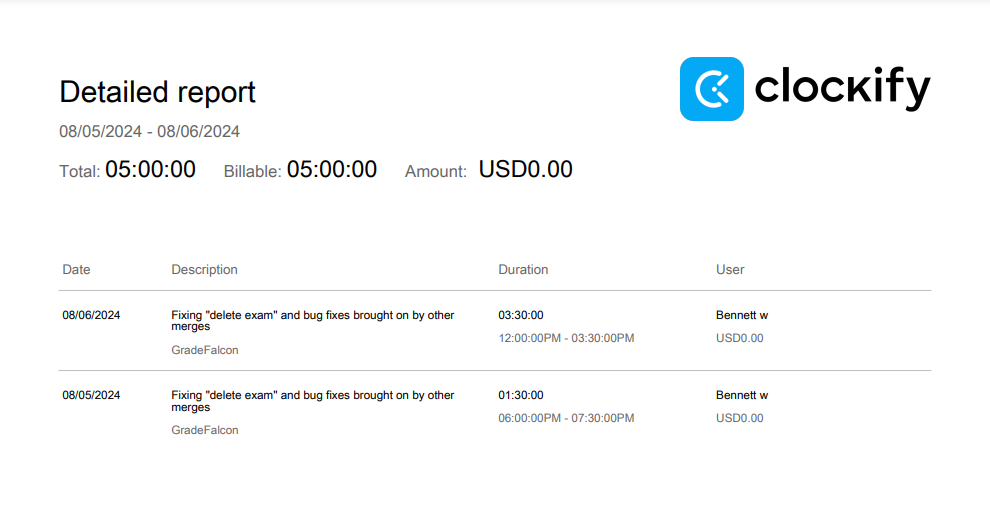
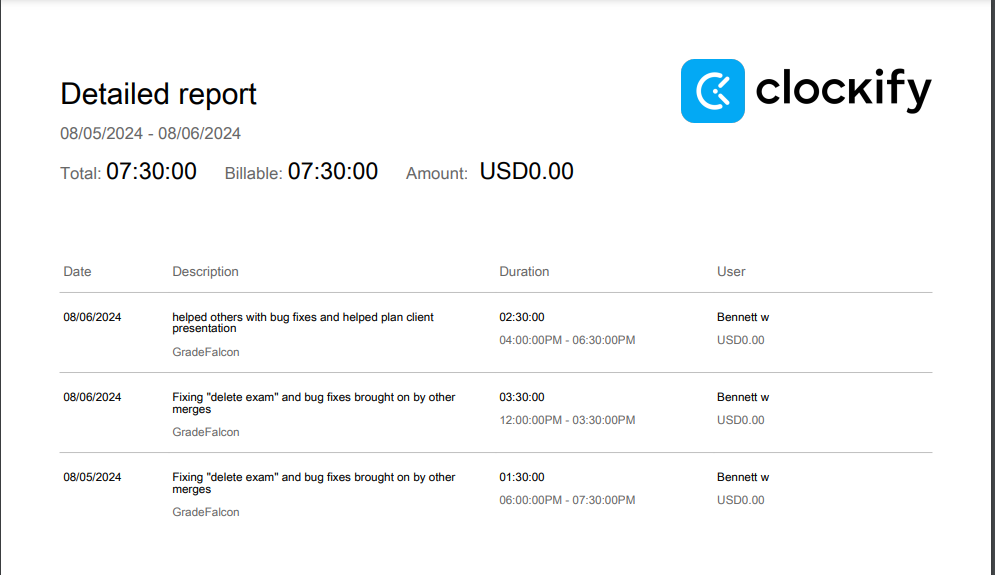
missing information and time

diff --git a/docs/weekly_logs/Personal Logs/Bennett.md b/docs/weekly_logs/Personal Logs/Bennett.md
@@ -38,7 +38,8 @@ Clockify report
 </table>
 
 ### Cycle Goal Review (Reflection: what went well, what was done, what didn't; Retrospective: how is the process going and why?)
-  * Did not put in as many hours as I typically do, but i got done what my group asked me to get done. That being to add a delete exam feature, and fix bugs that broke features presented last friday.
+  * Did not put in as many hours as I typically do, but i got done what my group asked me to get done. That being to add a delete exam feature, and fix bugs that broke features presented last friday. Wedndessday afternoon planning was done for the client presentation aswell as assisting in bug fixes from all the recent flurry of merges
+
 ### Next Cycle Goals (What are you going to accomplish during the next cycle)
   * Going to fix one more visual bug, wednessday focus on final report, thursday preperation for final presentation, friday after presentation is for any last additions
 
